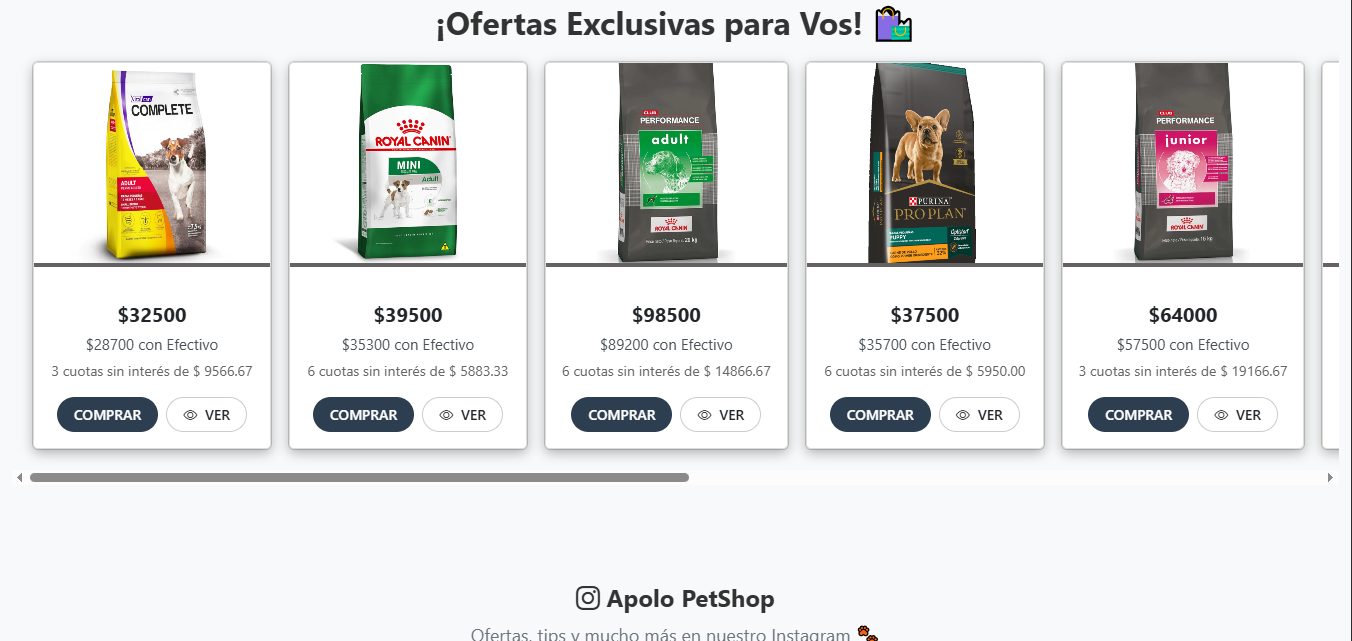
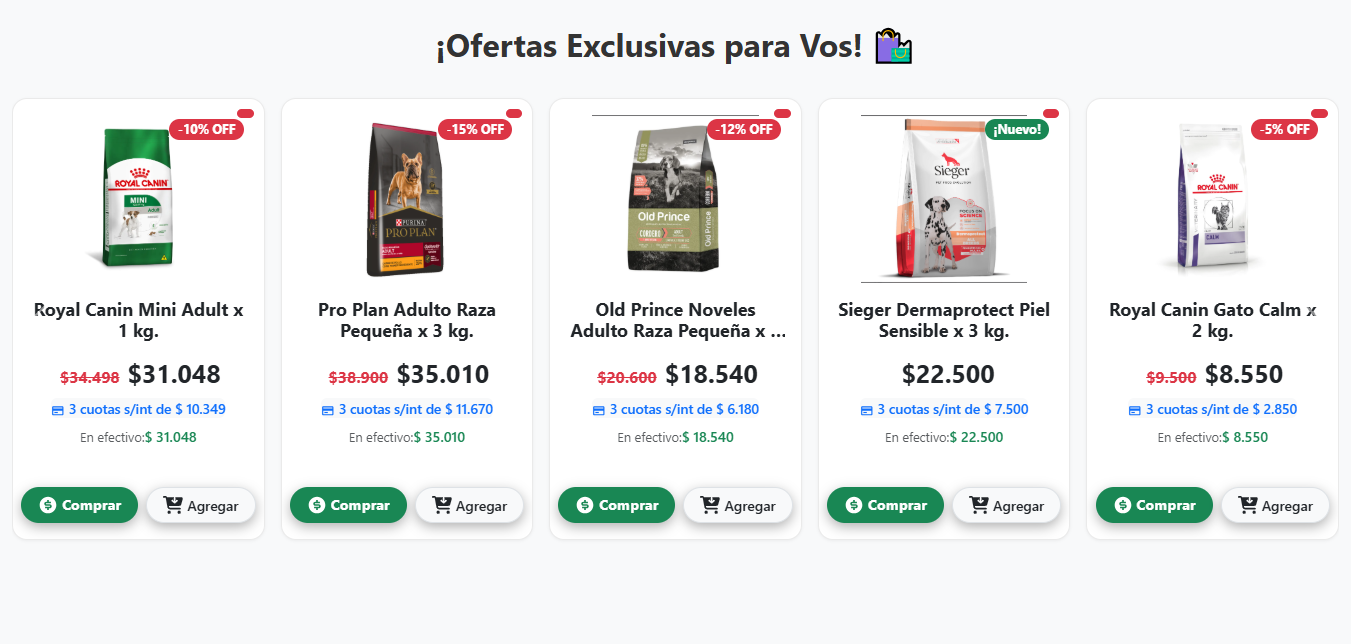
Agregardo de actualizacion de proyecto e imagenes

Changed region(s): [[0.0, 0.0, 1.0, 1.0], [0.342, 0.9048, 0.6528, 1.0]]

diff --git a/src/Components/proyectos.js b/src/Components/proyectos.js
@@ -106,10 +106,10 @@ export const proyectos = [
   {
     id: "project-apolo-petshop",
     titulo: "Apolo PetShop",
-    subtitulo: "E-commerce & Catálogo de Productos Veterinarios",
+    subtitulo: "E-commerce especializado en productos para mascotas",
     descripcion:
-      "Plataforma orientada al comercio electrónico para el sector veterinario. El sistema permite una administración dinámica del catálogo de productos, integrando validaciones avanzadas de formularios y una interfaz responsiva optimizada para la conversión. Implementa una arquitectura robusta para el manejo de inventario y una navegación intuitiva para el usuario final.",
-    imagenes: ["/img/Apolo01.png", "/img/Apolo02.png", "/img/Apolo03.png"],
+      "Plataforma integral de comercio electrónico para la venta y distribución de productos para mascotas. El sistema permite una gestión dinámica de un catálogo que incluye alimentos, accesorios y juguetes, integrando un flujo de pago seguro y un panel administrativo para el control de inventario. Incluye funcionalidades avanzadas de filtrado por tipo de animal y categoría, optimizando la experiencia de compra del usuario.",
+    imagenes: ["/img/Apolo01.png", "/img/Apolo02.png", "/img/Apolo03.png", "/img/Apolo04.png", "/img/Apolo05.png", "/img/Apolo06.png"],
     stack: {
       frontend: [
         "React.js",
@@ -120,15 +120,26 @@ export const proyectos = [
         "React Hook Form",
         "SweetAlert2",
       ],
-      backend: ["Node.js", "Express"],
-      database: ["MongoDB"],
+      backend: [
+        "Node.js", 
+        "Express", 
+        "JWT (Autenticación)", 
+        "Mercado Pago SDK", // Implementado para procesar las compras del carrito
+        "Cloudinary API",   // Usado para las imágenes de productos
+        "Multer",           // Gestión de carga de archivos
+        "Bcrypt",           // Cifrado de seguridad
+      ],
+      database: [
+        "MongoDB", 
+        "Mongoose"          // Modelado de productos, usuarios y órdenes
+      ],
     },
     links: {
-      demo: "https://petshopv2react.netlify.app/",
+      demo: "https://petshop-v2-apolo.netlify.app/",
       githubFront: "https://github.com/Maxii34/PetShop-v2-React",
-      githubBack: "https://github.com/Maxii34/PetShop-v2-React", // Nota: Reemplazar si tienes un repo de backend separado
+      githubBack: "https://github.com/Maxii34/Backend-Petshopv2", 
     },
-  },
+},
   {
     id: "project-force-gim",
     titulo: "ForceGim",

diff --git a/src/Components/shared/Footer.jsx b/src/Components/shared/Footer.jsx
@@ -48,7 +48,7 @@ const abrirGitHub = () => {
             <p className="text-white-50 mt-2">
               Transformando desafíos en soluciones digitales robustas.
             </p>
-            <span className="text-white-50 mt-2">Ultima Actualizacion: 18/04/2026</span>
+            <span className="text-white-50 mt-2">Ultima Actualizacion: 22/04/2026</span>
 
             <div className="footer-divider"></div>
  
